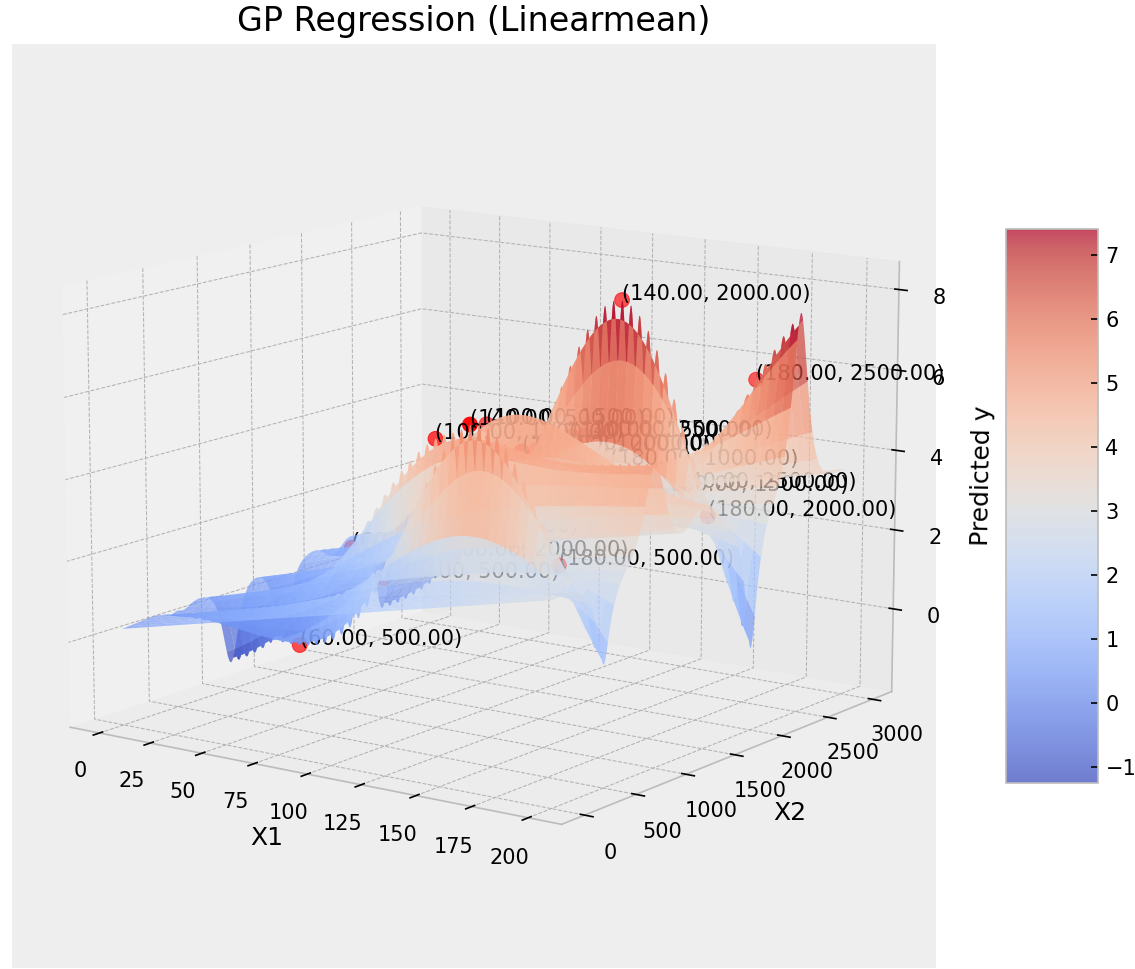
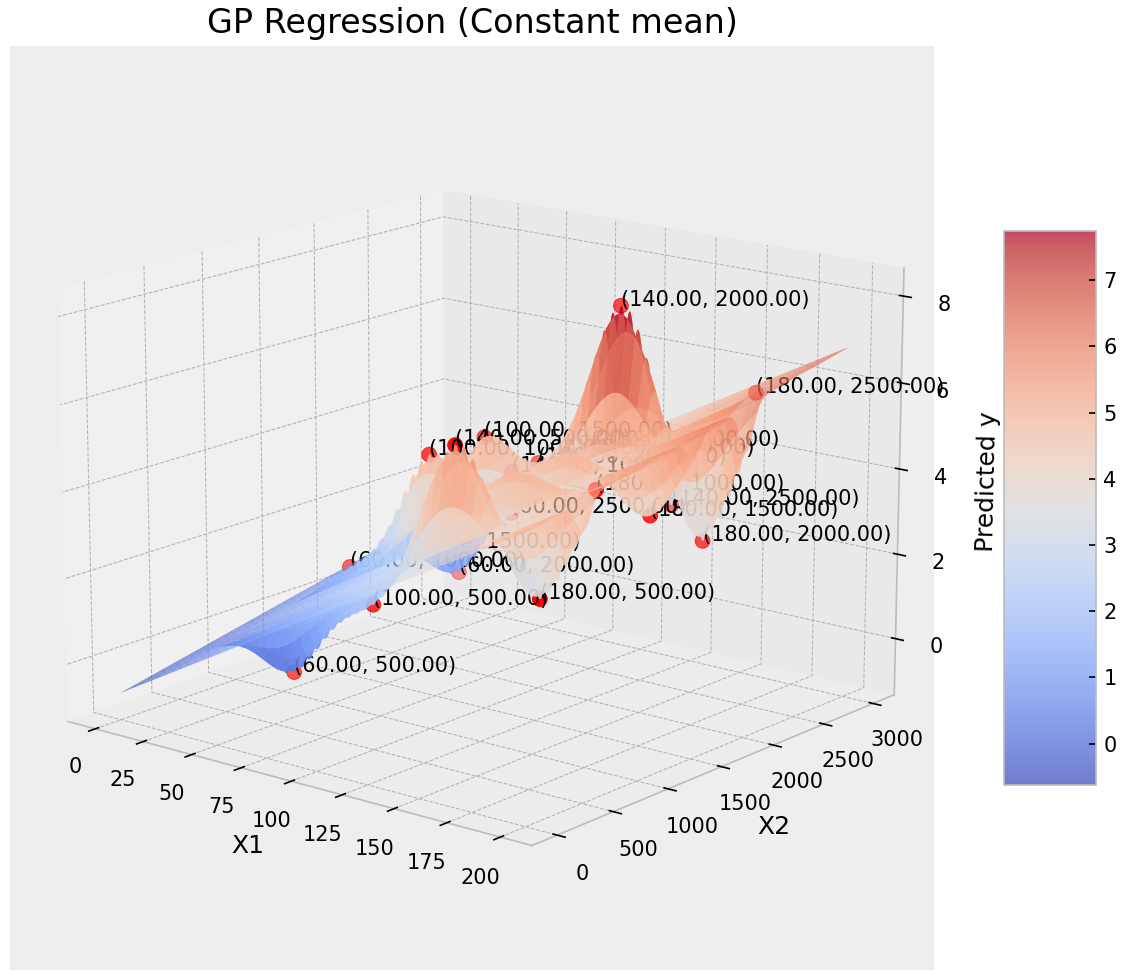
modified:   Constantmean.py 	modified:   Linearmean.py 	modified:   Quadraticmean.py 	modified:   README.md 	modified:   pics/Constant/2D(100).png 	modified:   pics/Constant/3D(100).png 	new file:   pics/Constant/Curves(100).png 	modified:   pics/Linear/2D.png 	modified:   pics/Linear/3D(100).png 	n

diff --git a/Quadraticmean.py b/Quadraticmean.py
@@ -82,7 +82,7 @@ class QuadraticMeanGPModel(gpytorch.models.ExactGP):
         covar_x = self.covar_module(x)
         return gpytorch.distributions.MultivariateNormal(mean_x, covar_x)
     
-
+lenthscale = torch.tensor([6.3, 63.0]) ##############给定长度尺度的先验数值
 noise = 1e-4
 
 likelihood = gpytorch.likelihoods.GaussianLikelihood()
@@ -90,7 +90,7 @@ model = QuadraticMeanGPModel(train_x, train_y, likelihood)
 
 
 model.likelihood.noise = noise
-
+model.covar_module.base_kernel.lengthscale = lenthscale ###############
 
 optimizer = torch.optim.Adam(model.parameters(), lr=0.1)
 mll = gpytorch.mlls.ExactMarginalLogLikelihood(likelihood, model)

diff --git a/Linearmean.py b/Linearmean.py
@@ -41,13 +41,15 @@ class LinearMeanGPModel(gpytorch.models.ExactGP):
         mean_x = self.mean_module(x)
         covar_x = self.covar_module(x)
         return gpytorch.distributions.MultivariateNormal(mean_x, covar_x)
-    
+
+lenthscale = torch.tensor([6.3, 63.0]) ##############给定长度尺度的先验数值
 noise = 1e-4
 
 likelihood = gpytorch.likelihoods.GaussianLikelihood()
 model = LinearMeanGPModel(train_x, train_y, likelihood)
 
 
+model.covar_module.base_kernel.lengthscale = lenthscale ###############
 model.likelihood.noise = noise
 
 optimizer = torch.optim.Adam(model.parameters(), lr=0.1)

diff --git a/Constantmean.py b/Constantmean.py
@@ -40,13 +40,13 @@ class ConstantMeanGPModel(gpytorch.models.ExactGP):
         covar_x = self.covar_module(x)
         return gpytorch.distributions.MultivariateNormal(mean_x, covar_x)
     
-
+lenthscale = torch.tensor([6.3, 63.0]) ##############给定长度尺度的先验数值
 noise = 1e-4
 
 likelihood = gpytorch.likelihoods.GaussianLikelihood()
 model = ConstantMeanGPModel(train_x, train_y, likelihood)
 
-
+model.covar_module.base_kernel.lengthscale = lenthscale ###############
 model.likelihood.noise = noise
 
 

diff --git a/README.md b/README.md
@@ -70,7 +70,7 @@
 
 ## 补充：
 
-* 更改长度尺度参数后(100)的部分图像如下所示：
+* 将默认长度尺度放大后(维度一10倍，维度二100倍)的部分图像如下所示：
 
 ### Constant
 
